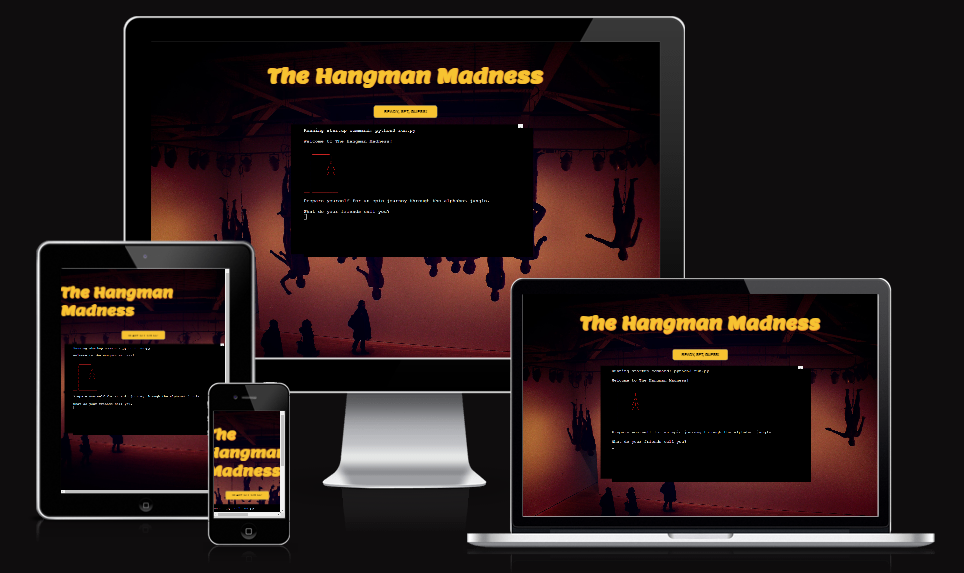
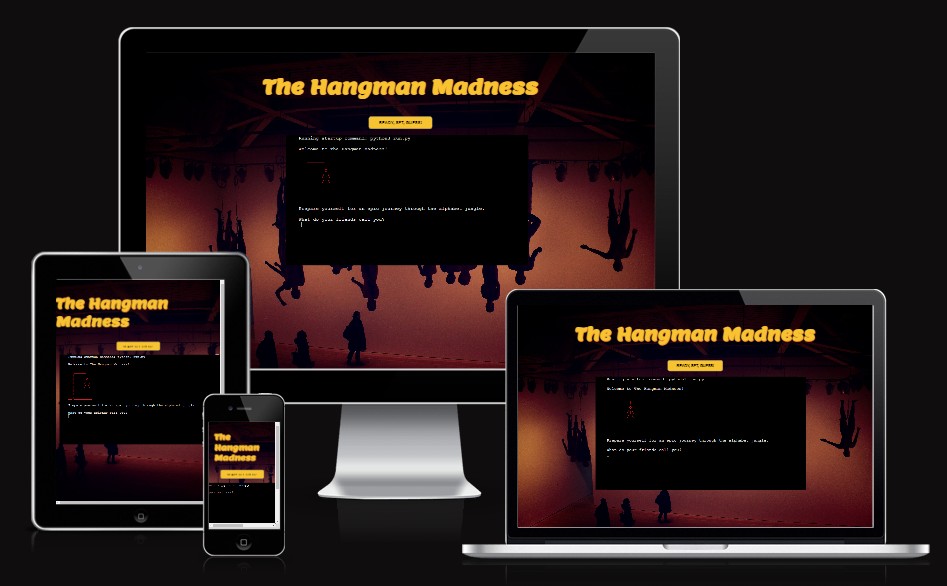
readme- add how to play instructions and new amiresponsive image

Changed region(s): [[0.0306, 0.0297, 0.9799, 0.9791]]

diff --git a/README.md b/README.md
@@ -3,18 +3,51 @@
 Welcome To The Hangman Madness!
 -------------------------------
 
-Imagine being stuck in a car during a snowstorm, the icy wind howling outside while you sit snugly inside. Boredom begins to creep in, but then you remember the Hangman Madness game on your phone. With two levels to choose from, you opt for the daring challenge of Hard mode, ready to test your skills.
+Imagine being stuck in a car during a snowstorm, the icy wind howling outside while you sit snugly inside. 
 
-Scrolling through the categories, you select "Languages" and begin guessing letters, trying to uncover the hidden word. Each incorrect guess brings a moment of suspense, but also a hint of laughter as you try to outsmart the hangman.
+Boredom begins to creep in, but then you remember the Hangman Madness game on your phone. With two levels 
+to choose from, you opt for the daring challenge of Hard mode, ready to test your skills.
 
-Despite the freezing temperatures outside, the game keeps you entertained and focused. Finally, after a series of amusing guesses, you unveil the word "Esperanto," feeling a sense of triumph in the midst of the storm.
+Scrolling through the categories, you select "Languages" and begin guessing letters, trying to uncover the hidden word. 
+Each incorrect guess brings a moment of suspense, but also a hint of laughter as you try to outsmart the hangman.
 
-As you wait for the snowplows to clear the highway, you realize that even in the chilliest of situations, a little game can bring warmth and joy.
+Despite the freezing temperatures outside, the game keeps you entertained and focused. Finally, after a series of 
+amusing guesses, you unveil the word "Esperanto," feeling a sense of triumph in the midst of the storm.
+
+As you wait for the snowplows to clear the highway, you realize that even in the chilliest of situations, 
+a little game can bring warmth and joy.
+
+The live link can be found here - [The Hangman Madness](https://play-hangman-3f577e016fa9.herokuapp.com/)
 
 How To Play
 -----------
 
-To play "The Hangman Madness," simply select your desired level and category. Then, guess letters to reveal the hidden word, but be careful not to run out of lives!
+Press the "Ready, Set, Guess" button to start the game.
+
+2. After the welcome message, enter your name. It must be at least 3 letters or numbers.
+
+3. Choose your level of adventure:
+
+  - Easy: 8 lives - perfect for hangman beginners.
+  - Hard: 4 lives - for the daring souls who seek a challenge.
+
+4. Select your favorite category out of 5 options:
+
+  1. Animals
+  2. Countries
+  3. Flowers
+  4. Languages
+  5. Fruits
+
+5. Let the guessing game begin at step 3! Based on your level selection, you'll have either 4 or 8 
+
+6. lives. Guess the letters to reveal the hidden word. Incorrect guesses will display the hangman in red and decrease your remaining lives. Correct guesses will reveal the letters in the right places.
+
+7. The game ends when you run out of lives or correctly guess the word. You'll be announced the right word and given the option to continue playing or not.
+
+8. If you choose to keep playing, the game will start over. If you choose not to continue, you'll see a goodbye message. You can restart the game by clicking the "Ready, Set, Guess" button if you change your mind.
+
+### Happy playing! Enjoy the challenge and have fun guessing the words!
 
 The live link can be found here - [The Hangman Madness](https://play-hangman-3f577e016fa9.herokuapp.com/)
 
